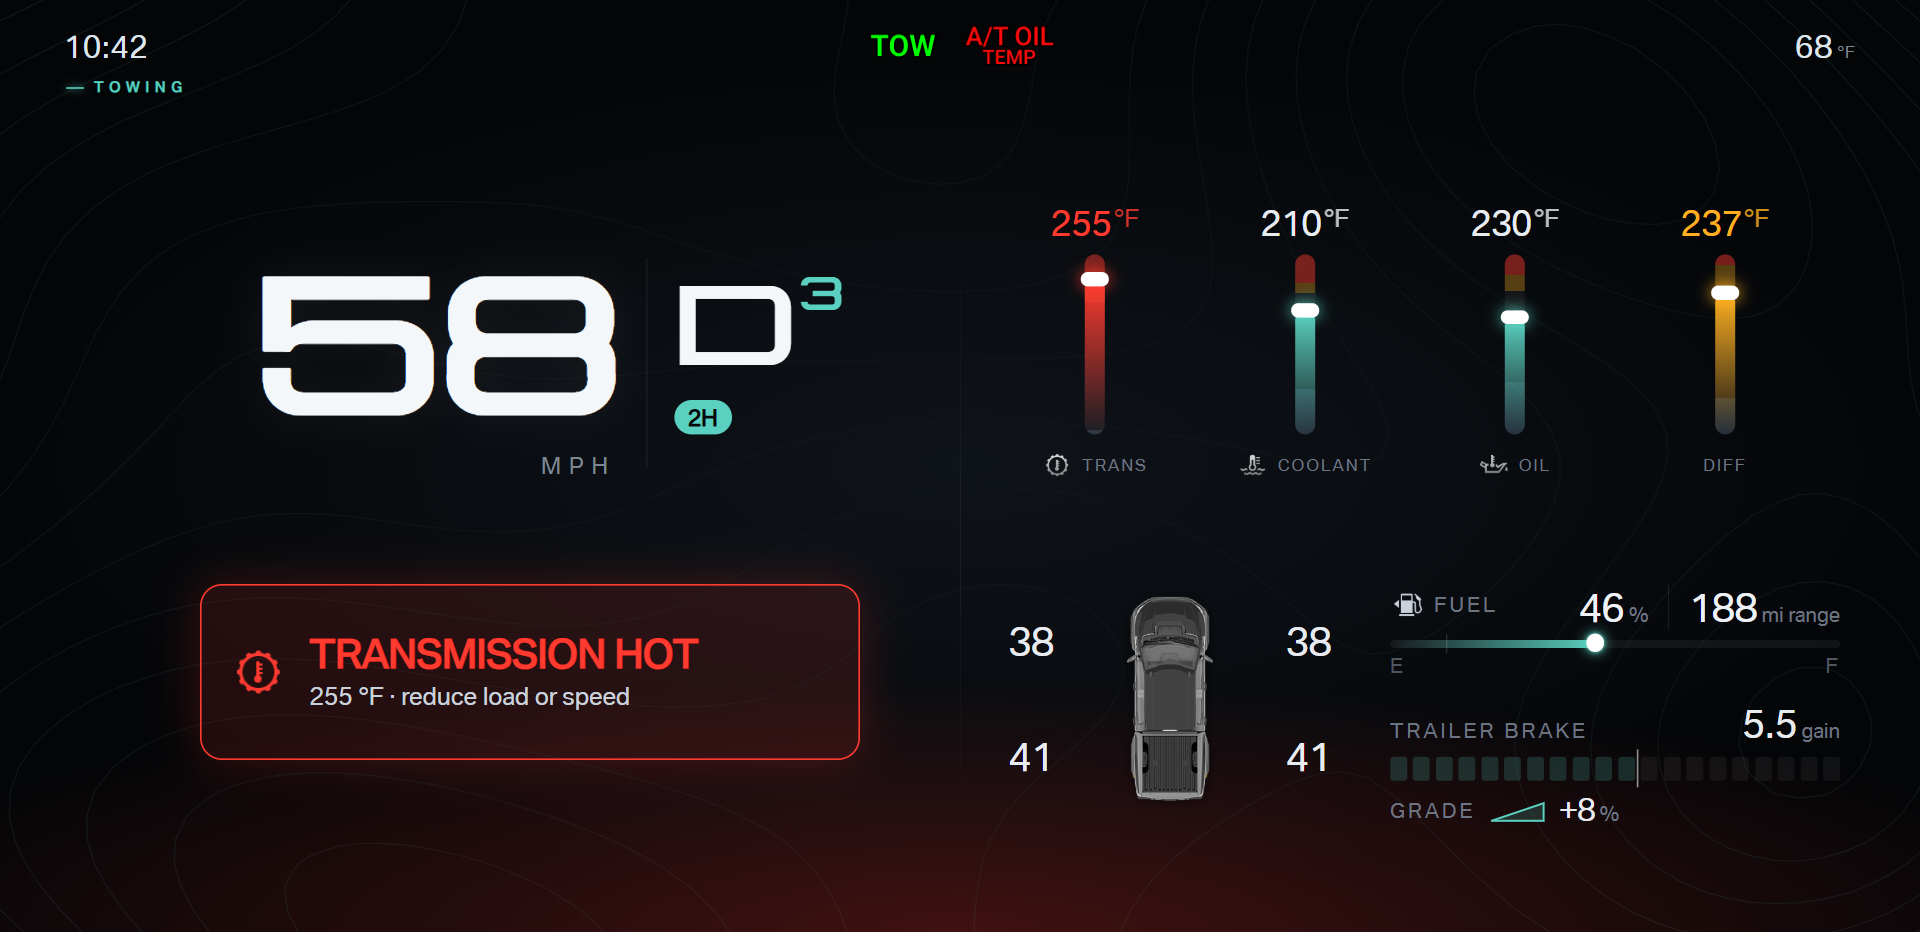
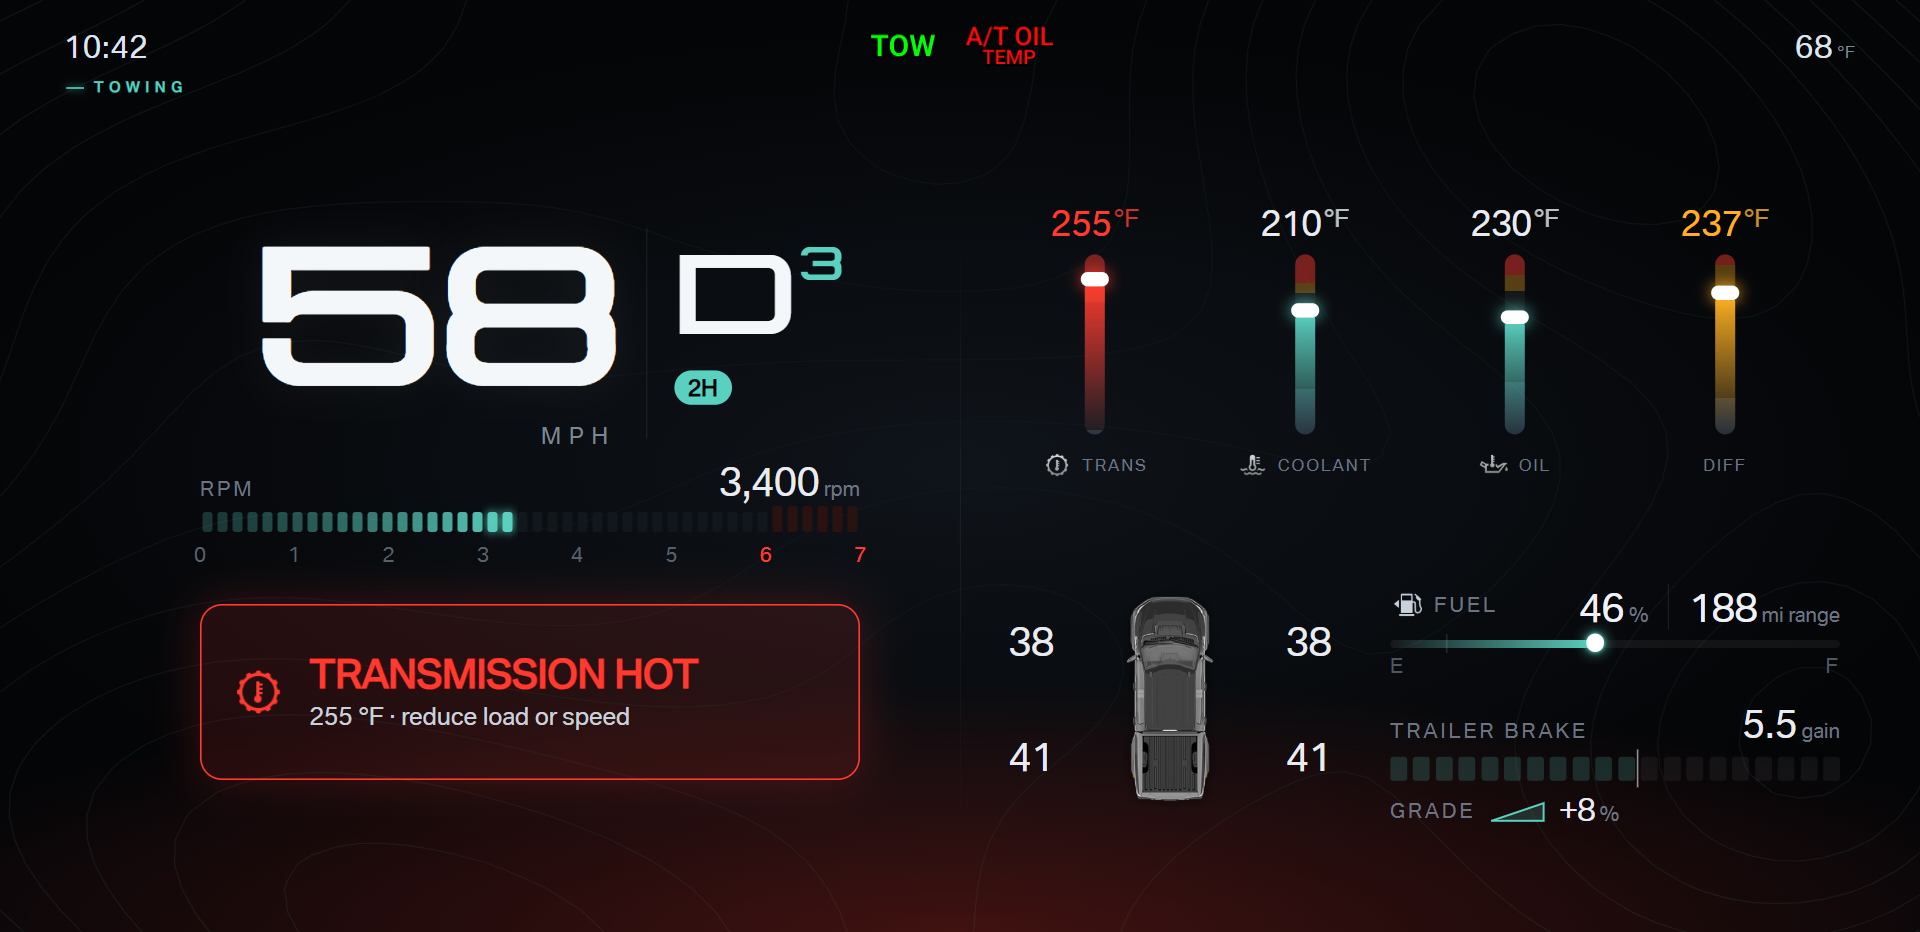
Add RPM and a cruise scene to the towing layout
Add a segmented RPM bar with a numeric reading under the towing speed,
and move the speed block up to make room. Add a cruise scene that shows
the shared cruise region with a set speed.

diff --git a/design/round-05/tow.html b/design/round-05/tow.html
@@ -7,10 +7,11 @@
 <link rel="stylesheet" href="../round-02/kit.css">
 <link rel="stylesheet" href="../round-04/kit4.css">
 <style>
-  .speed { right: 1300px; top: 236px; text-align: right; font-size: 210px; letter-spacing: -4px; }
-  .sunit { right: 1304px; top: 452px; font: 22px "BMW Type Global"; letter-spacing: 8px; color: var(--sub); }
-  .gdiv { left: 646px; top: 258px; width: 1px; height: 210px; background: rgba(255, 255, 255, .1); }
-  .gblk { left: 674px; top: 262px; display: flex; flex-direction: column; align-items: flex-start; gap: 18px; }
+  .speed { right: 1300px; top: 206px; text-align: right; font-size: 210px; letter-spacing: -4px; }
+  .sunit { right: 1304px; top: 422px; font: 22px "BMW Type Global"; letter-spacing: 8px; color: var(--sub); }
+  .gdiv { left: 646px; top: 228px; width: 1px; height: 210px; background: rgba(255, 255, 255, .1); }
+  .gblk { left: 674px; top: 232px; display: flex; flex-direction: column; align-items: flex-start; gap: 18px; }
+  .rpmrow { left: 200px; top: 462px; width: 660px; display: flex; align-items: baseline; justify-content: space-between; }
   .half { left: 960px; top: 210px; width: 1px; height: 640px; background: linear-gradient(transparent, rgba(255, 255, 255, .08), transparent); }
 
   /* Trailer brake: gain is always visible; while the brake pedal is pressed, output segments light up to the live level. */
@@ -43,12 +44,13 @@
 <script src="../round-02/kit.js"></script>
 <script src="../round-04/kit4.js"></script>
 <script>
-// Left half from towing A: speed, gear, and the paged card. Right half from towing B: temperature columns
+// Left half from towing A: speed, gear, RPM, and the paged card. Right half from towing B: temperature columns
 // over tire pressures, fuel, and trailer brake.
 const s = state("tow");
 s.pages = ["trip", "economy", "vehicle"];
 s.page = +(params.get("page") || 0) % s.pages.length;
 frame(s);
+layer(segBar({ x0: 200, x1: 860, y: 532, n: 44, max: 7000, value: s.rpm, redFrom: 6000, h: 20, w: 10 }));
 const segs = Array.from({ length: 20 }, (_, i) => {
   const v = (i + 1) / 2, lit = s.braking && v <= s.output;
   return `<i class="${lit ? `lit${v + .5 > s.output ? " head" : ""}` : v <= s.gain ? "avail" : ""}"></i>`;
@@ -58,7 +60,8 @@ place(`
   <div class="abs sunit" data-field="vehicleSpeedUnit">MPH</div>
   <div class="abs gdiv"></div>
   <div class="abs gblk">${gear(s, 120)}${chip(s)}</div>
-  ${card(s, "left:200px;top:584px;width:660px;height:176px")}
+  <div class="abs rpmrow" data-field="tacho rpm"><span class="k">RPM</span><span class="rv">${s.rpm.toLocaleString("en-US")}<span class="u">rpm</span></span></div>
+  ${card(s, "left:200px;top:604px;width:660px;height:176px")}
   <div class="abs brake${s.braking ? " on" : ""}" style="left:1390px;top:704px;width:450px"
     data-field="trucksTrailerGain (setting); live output: no firmware field yet (brake pedal + controller output needed)">
     <div class="top"><span class="k">TRAILER BRAKE</span><span class="state">BRAKING</span>

diff --git a/design/round-05/index.html b/design/round-05/index.html
@@ -16,7 +16,7 @@
 </head>
 <body>
 <h1>F150 cluster · Design round 5 · Towing hybrid</h1>
-<p>Left half from towing A: speed, gear, and the paged card (alerts take the card position). Right half from towing B: temperature columns over tire pressures, fuel, and trailer brake.
+<p>Left half from towing A: speed, gear, RPM, and the paged card (alerts take the card position). Right half from towing B: temperature columns over tire pressures, fuel, and trailer brake.
   Builds on the <a href="../round-04/">round 4</a> kit. Daily A and Daily B both stay as separate layouts.</p>
 <ul>
   <li>Trailer brake: the gain setting is always visible, with a marker on the output scale. While the brake pedal is pressed, the segments light up to the live output and the panel shows BRAKING.</li>
@@ -27,6 +27,7 @@
 </ul>
 <div class="grid">
   <div><h3>Normal</h3><a href="tow.html"><img src="shots/tow-normal.png" alt=""></a></div>
+  <div><h3>Cruise set 65: shared cruise region, top center</h3><a href="tow.html?scene=cruise"><img src="shots/tow-cruise.png" alt=""></a></div>
   <div><h3>Braking: output 4.0 of gain 5.5</h3><a href="tow.html?scene=braking"><img src="shots/tow-braking.png" alt=""></a></div>
   <div><h3>Coolant warm: amber glow</h3><a href="tow.html?scene=warmcoolant"><img src="shots/tow-warmcoolant.png" alt=""></a></div>
   <div><h3>Grade, transmission hot, diff warm: red glow</h3><a href="tow.html?scene=hottrans"><img src="shots/tow-hottrans.png" alt=""></a></div>

diff --git a/design/round-05/capture.js b/design/round-05/capture.js
@@ -16,7 +16,7 @@ async (page) => {
     await page.evaluate(() => document.fonts.ready);
     await page.screenshot({ path: out + path });
   };
-  for (const scene of ["normal", "braking", "warmcoolant", "hottrans", "turn", "lowtire"]) await shot(`tow.html?scene=${scene}&still=1`, `tow-${scene}.png`, 1920, 932);
+  for (const scene of ["normal", "cruise", "braking", "warmcoolant", "hottrans", "turn", "lowtire"]) await shot(`tow.html?scene=${scene}&still=1`, `tow-${scene}.png`, 1920, 932);
   await shot("tow.html?view=physical&ruler=1", "tow-physical.png", 1920, 720);
   for (const accent of ["teal", "ice", "blue", "slate"]) {
     await shot(`tow.html?accent=${accent}&still=1`, `accent-${accent}-tow.png`, 1920, 932);

diff --git a/design/round-04/kit4.js b/design/round-04/kit4.js
@@ -36,6 +36,7 @@ const COLD = { coolant: 38, oil: 31, trans: 24, diff: 20 };
 const SCENES = {
   normal: s => s,
   turn: s => Object.assign(s, { turn: "l", cruise: "set" }),
+  cruise: s => Object.assign(s, { cruise: "set", speed: 64, rpm: 1900 }),
   cold: s => Object.assign(s, { speed: 28, gearNum: 3, rpm: 1350, temps: Object.fromEntries(Object.keys(s.temps).map(k => [k, COLD[k]])) }),
   lowfuel: s => Object.assign(s, { fuel: 9, range: Math.round(s.range * 9 / s.fuel), telltales: [...s.telltales, 151],
     alert: ["caution", ICON("fuel"), "LOW FUEL", `${Math.round(s.range * 9 / s.fuel)} mi to empty`, true] }),
